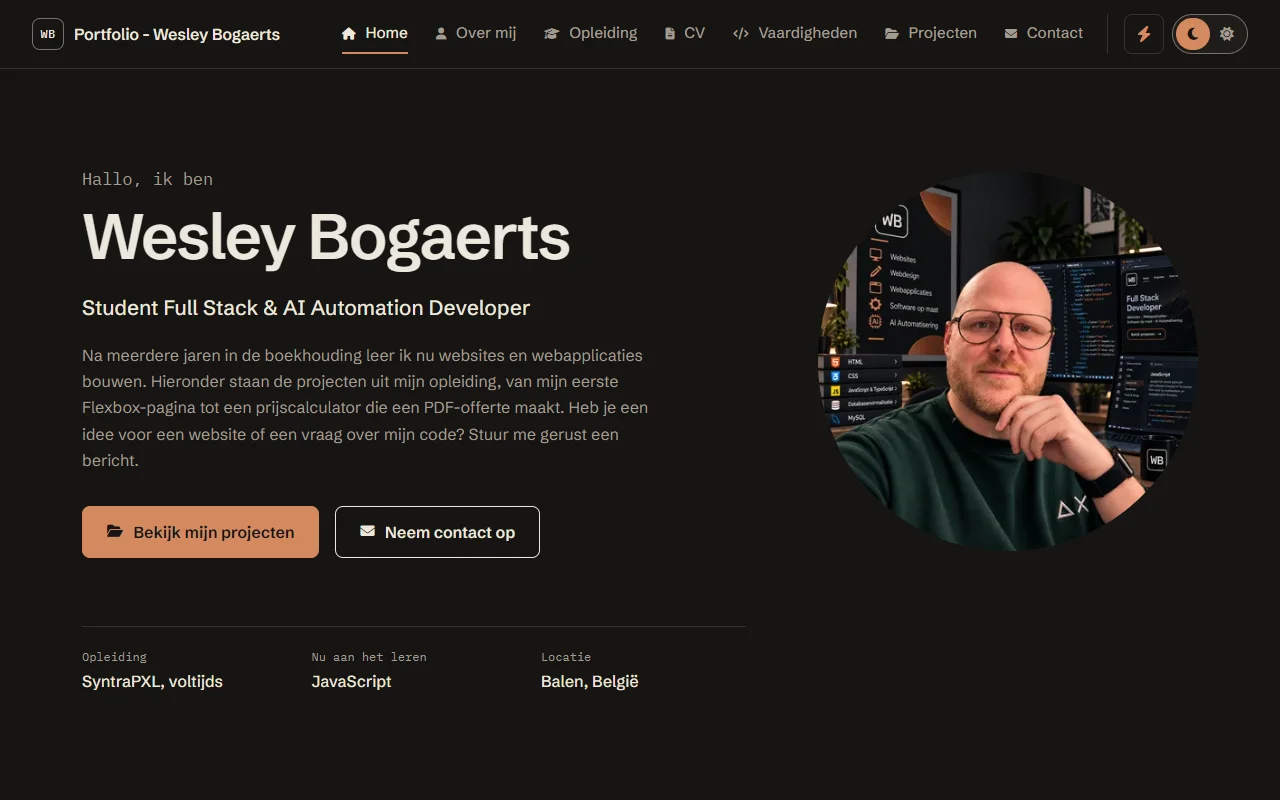
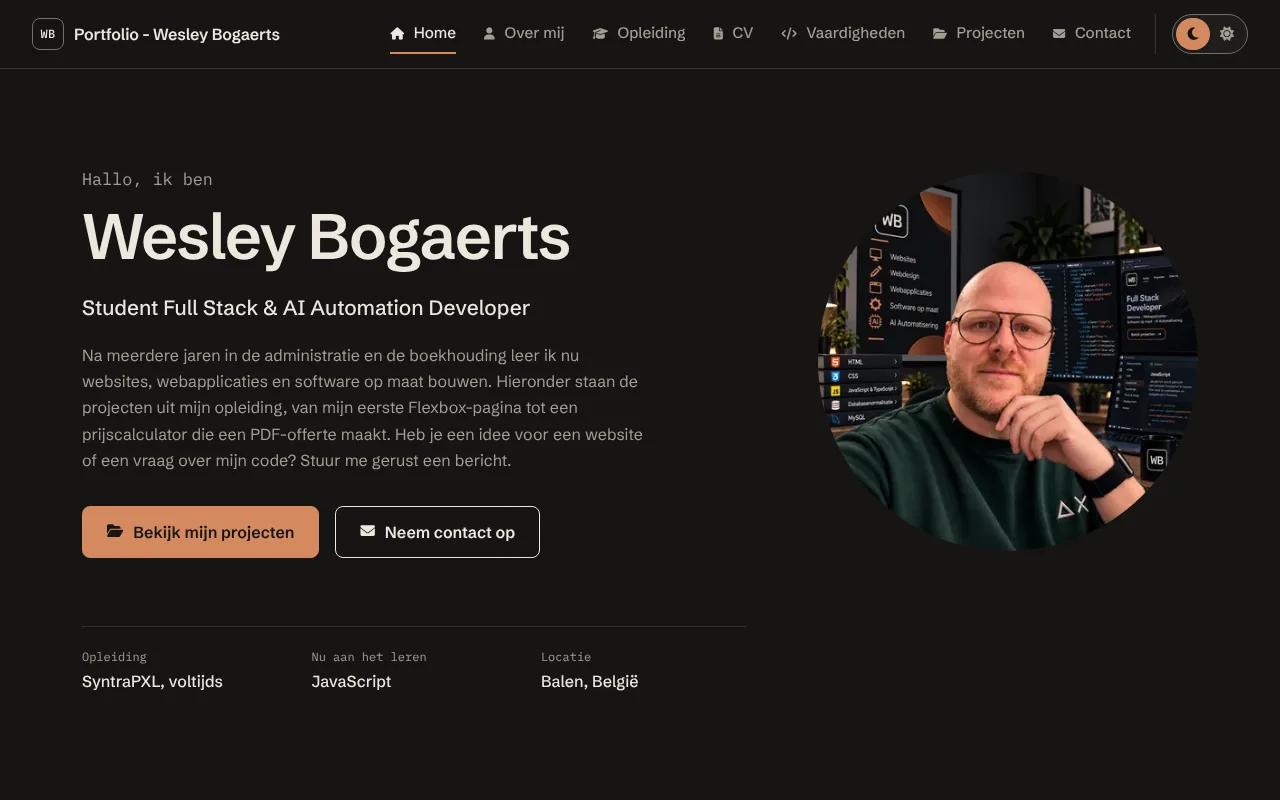
Update portfolio screenshots and social preview image
The screenshots still showed the removed bolt button and the old intro
sentence. portfolio-dark.webp, portfolio-light.webp (1280x800) and
og-image.jpg (1200x630) are retaken from the current page, same sizes.

- og:image query string raised to ?v=3 so LinkedIn and WhatsApp fetch
  the new image
- Version query strings raised to ?v=111, README updated

Claude-Session: https://claude.ai/code/session_012TiGb2P2ZFFrNx3qVTH5h1

diff --git a/index.html b/index.html
@@ -16,7 +16,7 @@
     <meta property="og:type" content="website">
     <meta property="og:url" content="https://wesley-dev-tech.github.io/Portfolio/">
     <!-- Voorbeeldafbeelding bij delen op LinkedIn, WhatsApp en andere platformen -->
-    <meta property="og:image" content="https://wesley-dev-tech.github.io/Portfolio/images/og-image.jpg?v=2">
+    <meta property="og:image" content="https://wesley-dev-tech.github.io/Portfolio/images/og-image.jpg?v=3">
     <meta property="og:image:width" content="1200">
     <meta property="og:image:height" content="630">
     <meta property="og:image:alt" content="Startpagina van het portfolio van Wesley Bogaerts">
@@ -35,19 +35,19 @@
     <link rel="stylesheet"
         href="https://fonts.googleapis.com/css2?family=IBM+Plex+Mono:wght@400;500&family=Schibsted+Grotesk:wght@400;500;600;700&display=swap">
 
-    <link rel="stylesheet" href="style.css?v=110">
-    <link rel="icon" href="favicon.ico?v=110" sizes="16x16 32x32 48x48">
+    <link rel="stylesheet" href="style.css?v=111">
+    <link rel="icon" href="favicon.ico?v=111" sizes="16x16 32x32 48x48">
     <link rel="apple-touch-icon" href="apple-touch-icon.png">
 
     <!-- In de head, zodat het thema al staat voor de pagina getekend wordt.
          De rest van script.js wacht zelf tot de HTML geladen is. -->
-    <script src="script.js?v=110"></script>
+    <script src="script.js?v=111"></script>
 
     <!-- jsPDF en mijn eigen script dat er de cv-pdf mee tekent; defer laadt ze zonder de pagina op te houden -->
     <script src="https://cdnjs.cloudflare.com/ajax/libs/jspdf/2.5.1/jspdf.umd.min.js"
         integrity="sha384-JcnsjUPPylna1s1fvi1u12X5qjY5OL56iySh75FdtrwhO/SWXgMjoVqcKyIIWOLk" crossorigin="anonymous"
         defer></script>
-    <script src="cv-pdf.js?v=110" defer></script>
+    <script src="cv-pdf.js?v=111" defer></script>
 </head>
 
 <body>

diff --git a/README.md b/README.md
@@ -40,7 +40,7 @@ The light theme uses warm off-white "paper" tones, near-black text and a deeper 
 
 All colors, radii and spacing live as CSS variables at the top of `style.css`. Type is set in Schibsted Grotesk, with IBM Plex Mono for small technical details such as section numbers, labels and the scrolling text bar.
 
-The CSS and JavaScript URLs in `index.html` (`style.css`, `favicon.ico`, `script.js` and `cv-pdf.js`) share one version query string (`?v=110`). Raise all of them together after a change so browsers load the new files.
+The CSS and JavaScript URLs in `index.html` (`style.css`, `favicon.ico`, `script.js` and `cv-pdf.js`) share one version query string (`?v=111`). Raise all of them together after a change so browsers load the new files.
 
 ## How to View
 
@@ -64,7 +64,7 @@ HTML, CSS, database normalization, MySQL, Agile & Scrum, and JavaScript (current
 - Project cards as short, playful teasers with a large icon, title, teaser, technologies and "Bekijk details", all centered. Clicking a card opens a detail modal with the icon, title, a screenshot (for this portfolio in the active theme), description, technologies and links to the live demo and the code.
 - A footer with a contact form (name, company name, e-mail, phone and message; all but the company name are required and marked with a copper asterisk, `.contact-required`; every field has a placeholder; from 576px name and company, and e-mail and phone, sit side by side in `.contact-pair`, so the form is no taller than the map next to it), phone, an embedded Google Maps map of my location with rounded corners (`.footer-map`; the iframe is absolutely positioned inside it so it always fills the card, it is not lazy-loaded and its column skips the scroll-reveal animation, because Safari and the Facebook in-app browser can leave an iframe blank in those cases; on phones the map has 40px space above and below; Google Maps has no dark embed, so in the dark theme a CSS `filter: invert() hue-rotate(180deg)` turns it dark while the pin stays red), (the address itself is not shown as text; the map opens it in Google Maps). From 992px the right column is as tall as the form column: the map grows to fill it, and the column is pushed down by the height of the "06" label (`--section-index-size × 1.65 + 10px`) plus the title's half-leading (both sizes are shared custom properties on `:root`, also used by `.section-index` and `.section-title`, so they cannot drift apart); all desktop rules for the footer live in one media query after its base rules, so the top of the map lines up with the "Neem contact op" title and the social links end level with the send button; on phones the map keeps a 4:3 ratio — the phone row has a line above and below it and 12px padding on both sides, so the icon and text sit centered between the dividing lines, social links (GitHub, LinkedIn, WhatsApp and Messenger) and a "Privacybeleid" button. The Messenger icon (`fa-facebook-messenger`) links to `https://m.me/wesley.bogaerts`, which opens a conversation with me directly in Messenger, just like the `wa.me` link does for WhatsApp. The form posts to [FormSubmit](https://formsubmit.co/) with `fetch`, so it also works in the in-app browsers of Facebook, Messenger and Instagram, where `mailto:` and `tel:` links often do nothing. A hidden honeypot field stops spam bots, a status line confirms the message was sent, and without JavaScript the form falls back to a normal POST. The empty status line takes no space (`:empty`), so the send button sits 40px above the contact details on phones and lines up with the social links on desktop; the copyright line follows at 40 to 56px. It opens a privacy policy in a dialog: no own cookies or tracking (only the embedded Google Maps map may set cookies), with a link that scrolls inside the dialog to the "Diensten van derden" part (`.privacy-jump`), the theme choice stored in `localStorage`, the third-party services that load files (GitHub Pages, Google Fonts, Google Maps, jsDelivr, cdnjs), what happens when you get in touch (including FormSubmit, WhatsApp and Messenger), and your GDPR rights.
 - The project details and the privacy policy share one dialog setup (`.dialog` in `style.css`, `openVenster` in `script.js`). The class is deliberately not called `.modal`, because Bootstrap hides that class. On opening, the dialog itself gets the focus instead of the close button, so no focus ring appears around the X; with Tab you still reach it. On touch screens the X gets its hover look while it is pressed.
-- Open Graph tags with a preview image (`images/og-image.jpg?v=2`; raise the number after replacing the image so platforms fetch it again) for sharing on LinkedIn, WhatsApp and other platforms, a canonical link and a sitemap for search engines.
+- Open Graph tags with a preview image (`images/og-image.jpg?v=3`; raise the number after replacing the image so platforms fetch it again) for sharing on LinkedIn, WhatsApp and other platforms, a canonical link and a sitemap for search engines.
 - On phones and tablets the message field of the contact form grows with the text (`field-sizing: content`, with a small script as fallback), because a textarea cannot be resized by dragging on a touch screen.
 - A light and a dark theme with a switch in the header (next to the menu button on phones and tablets). The moon and the sun are always visible side by side, and a copper thumb slides under the active theme, so visitors see there are two options; on hover the other icon lights up. It is a `role="switch"` button with `aria-checked`, and its position follows from `data-theme` in CSS. The dark theme is the default; the choice is remembered, and the browser bar color follows the theme.
 - Animations respect the reduced-motion setting, and everything works with the keyboard.
